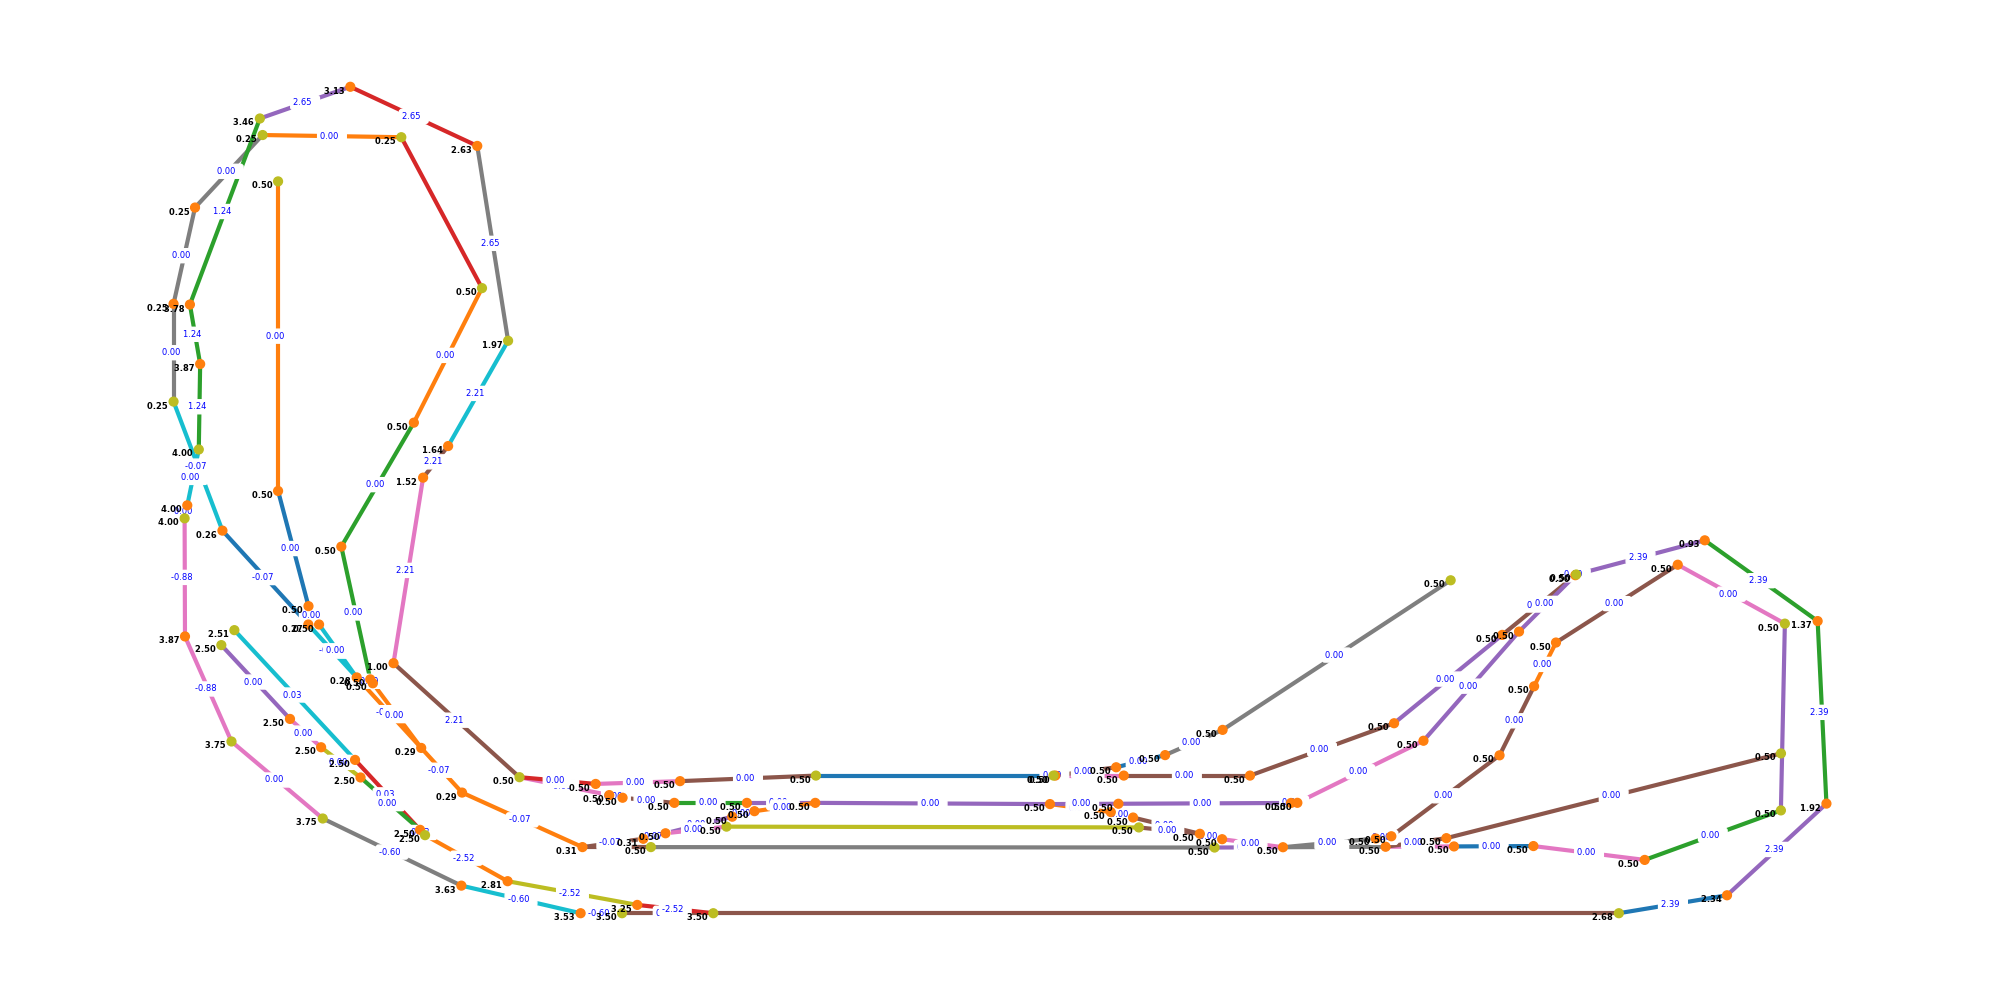
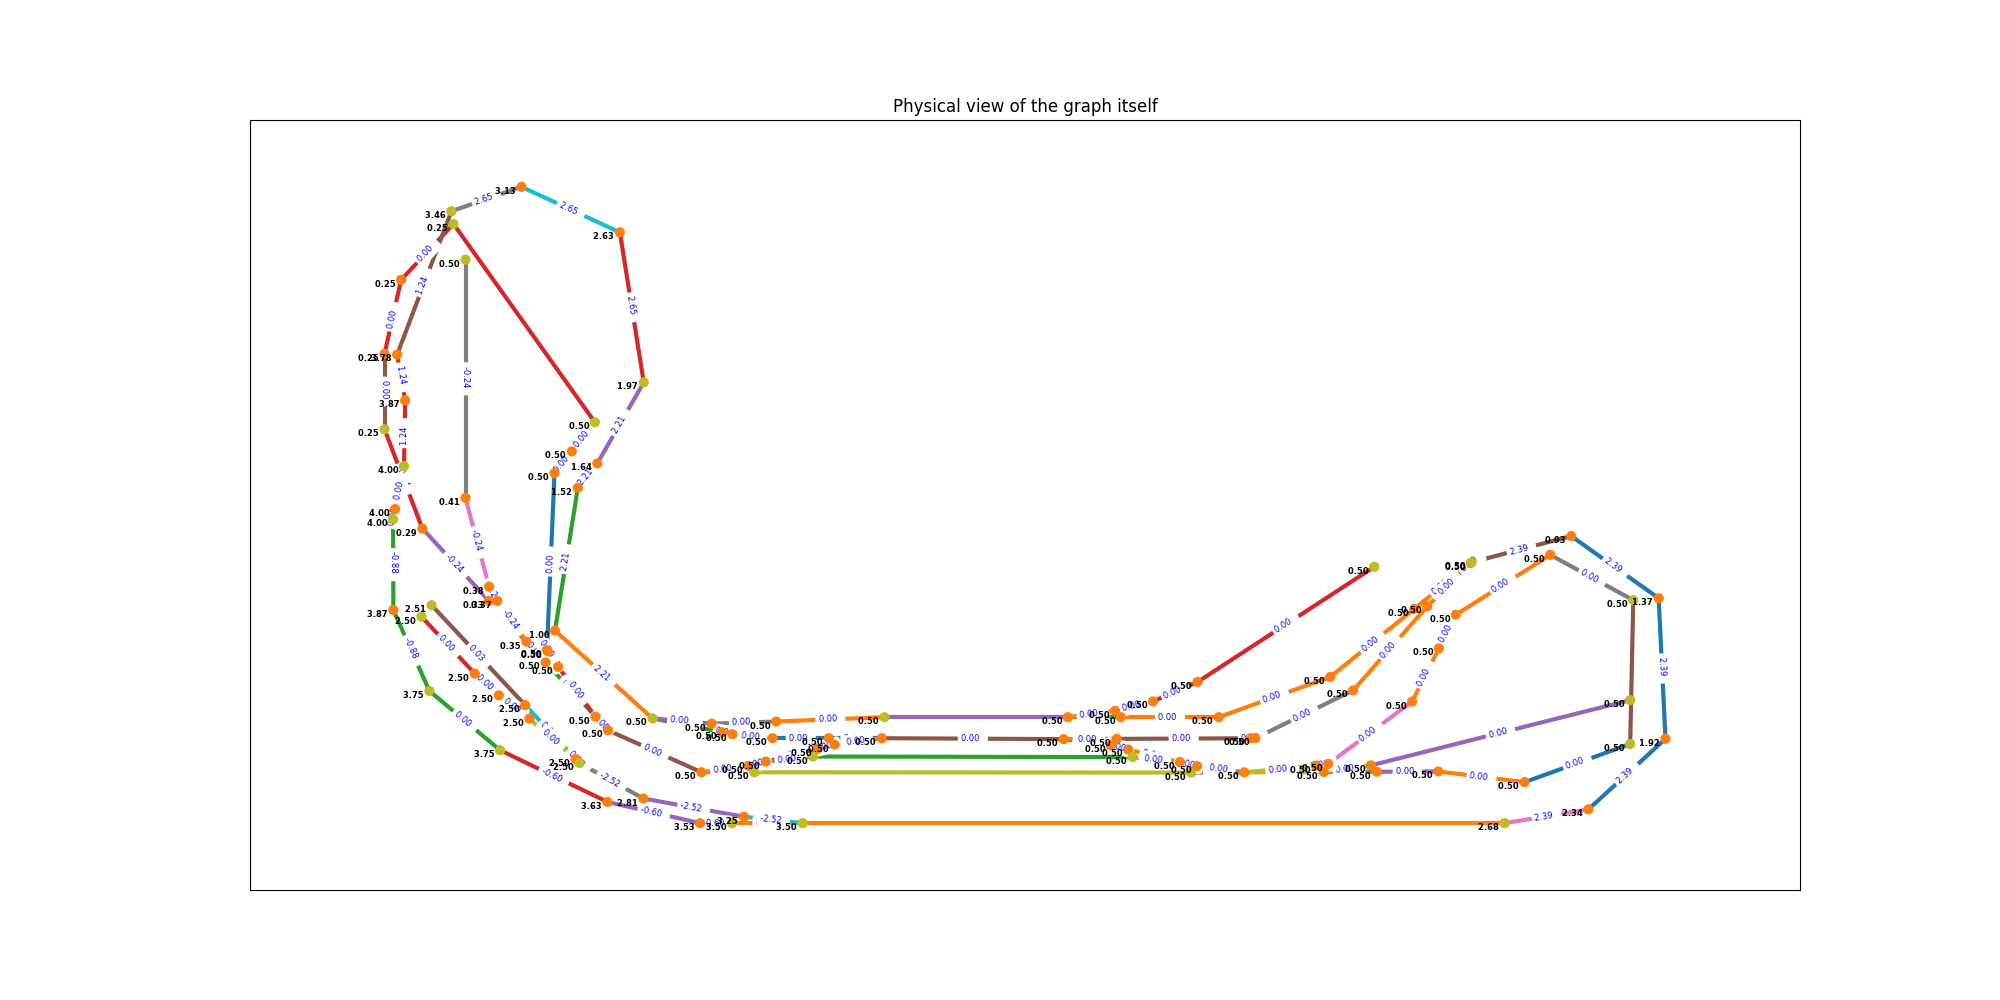
experiment with DFS to solve missing edges in spanning tree

diff --git a/elevations.py b/elevations.py
@@ -121,7 +121,7 @@ def parts_to_graph(parts):
         for node_id,height in nodes.items():
           G.add_node(node_id,height=height)
         u,v=nodes.keys()
-        G.add_edge(u,v,length=part.length,part_id=str(part),weight=1)#/part.length)
+        G.add_edge(u,v,length=part.length,part_id=str(part),weight=part.length)
         pass
       case 'TURNOUT':
         # match up the connections to the paths by
@@ -164,12 +164,13 @@ def parts_to_graph(parts):
   logging.info('Converted to graph')
   return G,pos      
 
-def draw_graph(G,path,pos,node_labels=None,node_colors=None,edge_labels=None,edge_color=None):
+def draw_graph(G,path,pos,node_labels=None,node_colors=None,edge_labels=None,edge_color=None,title=None):
   '''Draw the graph and store at path
   pos is used for the node locations'''
   plt.figure(figsize=(20,10),)
-  plt.axis('off')
-  plt.tight_layout(pad=0)
+  #plt.axis('off')
+  if title:
+    plt.title(title)
 
   options={'node_color':node_colors,'with_labels':False,'node_size':40,'edge_color':edge_color,'width':3}
   nx.draw_networkx(G, pos,**options)
@@ -177,9 +178,8 @@ def draw_graph(G,path,pos,node_labels=None,node_colors=None,edge_labels=None,edg
     options={'horizontalalignment':'right','verticalalignment':'top','font_size':6,'font_color':'k','font_weight':'bold'}
     nx.draw_networkx_labels(G,pos,node_labels,**options)
   if edge_labels:
-    options={'font_size':6,'rotate':False,'font_color':'b'}
+    options={'font_size':6,'rotate':True,'font_color':'b'}
     nx.draw_networkx_edge_labels(G,pos,edge_labels=edge_labels,**options)
-
   plt.savefig(path)
   logging.info('Displayed graph in file %s'%(path))
 
@@ -346,16 +346,31 @@ def main():
   physcial_file=base+config['physical_graph_file']
   logical_file=base+config['logical_graph_file']
   span_tree_file=base+config['span_tree_file']
+  dfs_seq_file=base+config['dfs_seq_file']
+
+
   parts=read_input(in_file=in_file)
   parts=parts_as_dict(parts)
   logging.info (f'input file has {len(parts)} parts')
   G,physical_pos=parts_to_graph(parts)
   logging.info('Graph has %d nodes'%len(list(G.nodes())))
 
+  # find a root on a siding
+  edges=list(G.edges)
+  root_candidates=[a for (a,b) in edges if 'E' in a]+[b for (a,b) in edges if 'E' in b]
+  root=root_candidates[0]
+
+  # experiment with edge_dfs
+  dfs=list(nx.edge_dfs(G,root_candidates[0]))
+  edge_labels={key:'%d'%(sequence) for sequence,key in enumerate (dfs)}
+  options={'edge_labels':edge_labels,'title':'Sequences for depth first search starting at '+root_candidates[0]}
+  draw_graph(G,dfs_seq_file,physical_pos,**options)
+
+
   # create a spanning tree so it can be walked to set heights
   span_tree = nx.minimum_spanning_tree(G,weight='length')
   logging.info('Spanning tree node count= %d'%(len(list(span_tree.nodes()))))
-  root='S115-E2'
+
 
   # set the heights
   processed,node_line,epe,next_ramp=walk_tree(span_tree,root)
@@ -365,10 +380,10 @@ def main():
   logging.info('Encountered %d endpoints'%epe)
   logging.info('Ramp numbers: 0 - %d'%(next_ramp-1))
 
-  # show spanning tree with ramps by color
+  title='Spanning tree with ramps by color'
   pos=nx.nx_pydot.graphviz_layout(span_tree,prog='neato')
   node_labels, node_colors, edge_labels, edge_colors=drawing_decorations(span_tree)
-  options={'node_labels':node_labels,'node_colors':node_colors,'edge_labels':edge_labels,'edge_color':edge_colors}
+  options={'node_labels':node_labels,'node_colors':node_colors,'edge_labels':edge_labels,'edge_color':edge_colors,'title':title}
   draw_graph(span_tree,span_tree_file,pos,**options)
 
   # transfer the attributes from the spanning tree to the main graph
@@ -379,11 +394,13 @@ def main():
   att={(a[0],a[1]): a[2]for a in ea}
   nx.set_edge_attributes(G,att)
 
-  # show the physical and logical views of the graph itself
+  title='Physical view of the graph itself'
   node_labels, node_colors, edge_labels, edge_colors=drawing_decorations(G)
-  options={'node_labels':node_labels,'node_colors':node_colors,'edge_labels':edge_labels,'edge_color':edge_colors}
+  options={'node_labels':node_labels,'node_colors':node_colors,'edge_labels':edge_labels,'edge_color':edge_colors,'title':title}
   draw_graph(G,physcial_file,physical_pos,**options)
 
+  title='Logical view of the graph itself'
+  options={'node_labels':node_labels,'node_colors':node_colors,'edge_labels':edge_labels,'edge_color':edge_colors,'title':title}
   pos=nx.nx_pydot.graphviz_layout(G,prog='neato')
   draw_graph(G,logical_file,pos,**options)
 

diff --git a/docs/index.md b/docs/index.md
@@ -5,12 +5,21 @@ The layout below is stored in a file created by the xtrkcad program.
 ![CAD (xtrkcad) source](./xtrkcad_source.png)
 
 That file is read by custom Python code and graph object is generated with the Python library networkx.  
+
+## Spanning Tree
 Networkx provides tools to convert the graph into a spanning tree.  The spanning tree has all the nodes and edges but because it is a tree it can be "walked" in an orderly way.  This allows a the program to walk through the tree and fill in the missing heights, so that every node has a height.
 
 There is a problem with this method.  Not all edges are accounted for in the spanning tree (although all nodes are).  The missing edges are because adjacent nodes end up on different branches of the tree. These end up not labeled and if they should be on a grade this is not taken into account.
 
 The spanning tree looks like this (currenly showing grades on the edges):
 ![Spanning Tree](./span_tree.png)
+
+## Depth First Search
+This method seems to resolve the problem with the un-walked edges.  
+
+![Depth first search](./dfs_seq_layout.png)
+
+## Still using the spanning tree method below
 
 The logical layout uses the Graphviz "neato" layout.  The physical layout uses the original (x,y) coordinates from xtrkcad, but with straight edges.
 
